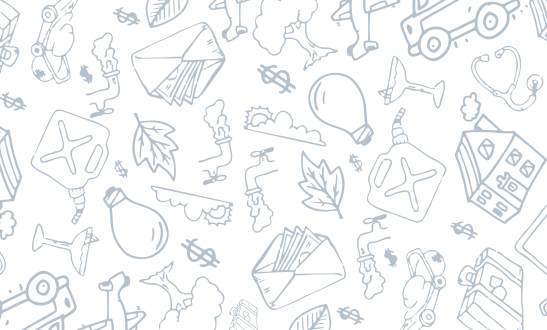
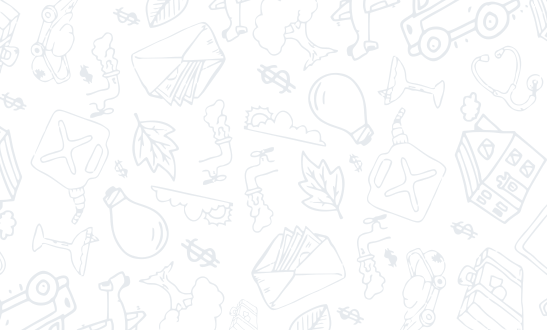
added fainter backgrounds

diff --git a/index.html b/index.html
@@ -62,6 +62,10 @@
                     the importance of sanitation and hygiene and also screen for
                     preventable diseases of public health importance and vaccinate
                     against them. </p>
+                    <p>
+                          The campaign will be launched on the 2019 World Environment Day, at the University of Abuja,
+                        on 5th and 6th June 2019 and would be reaching out to 1000 female students.
+                    </p>
                    <div class="btn orange black-text cus-btn">Volunteer</div>
                    <div class="btn black orange-text cus-btn">Donate</div>
     </div>
